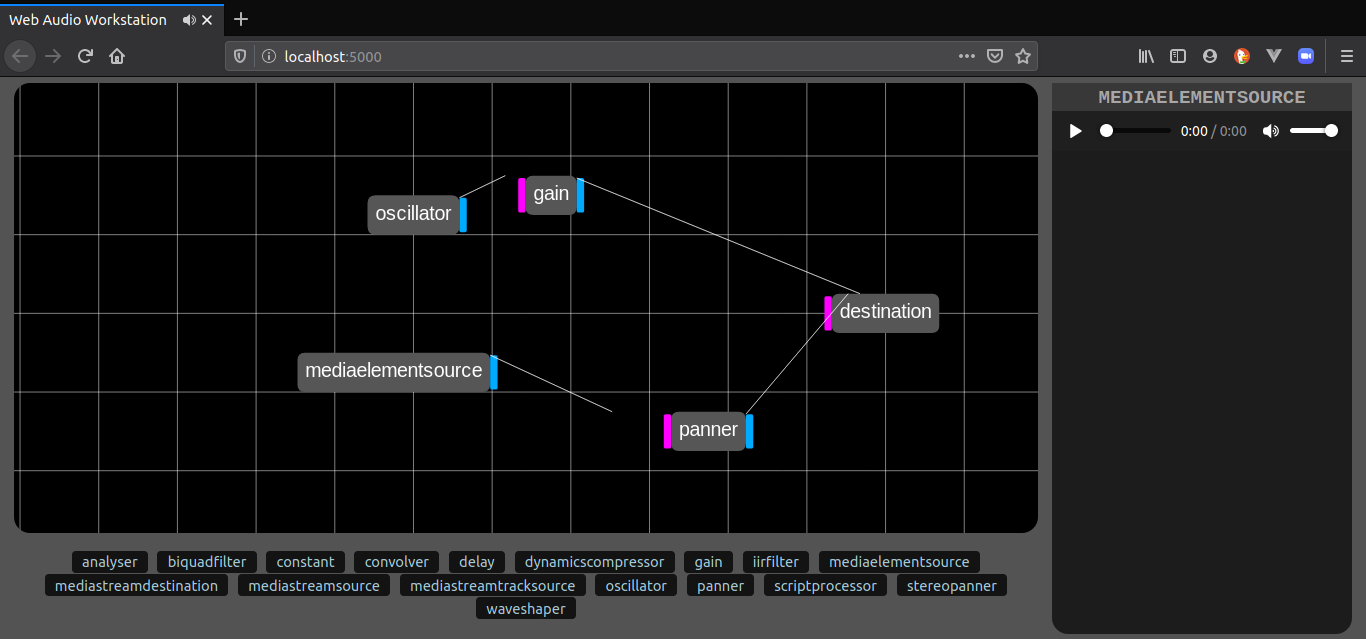
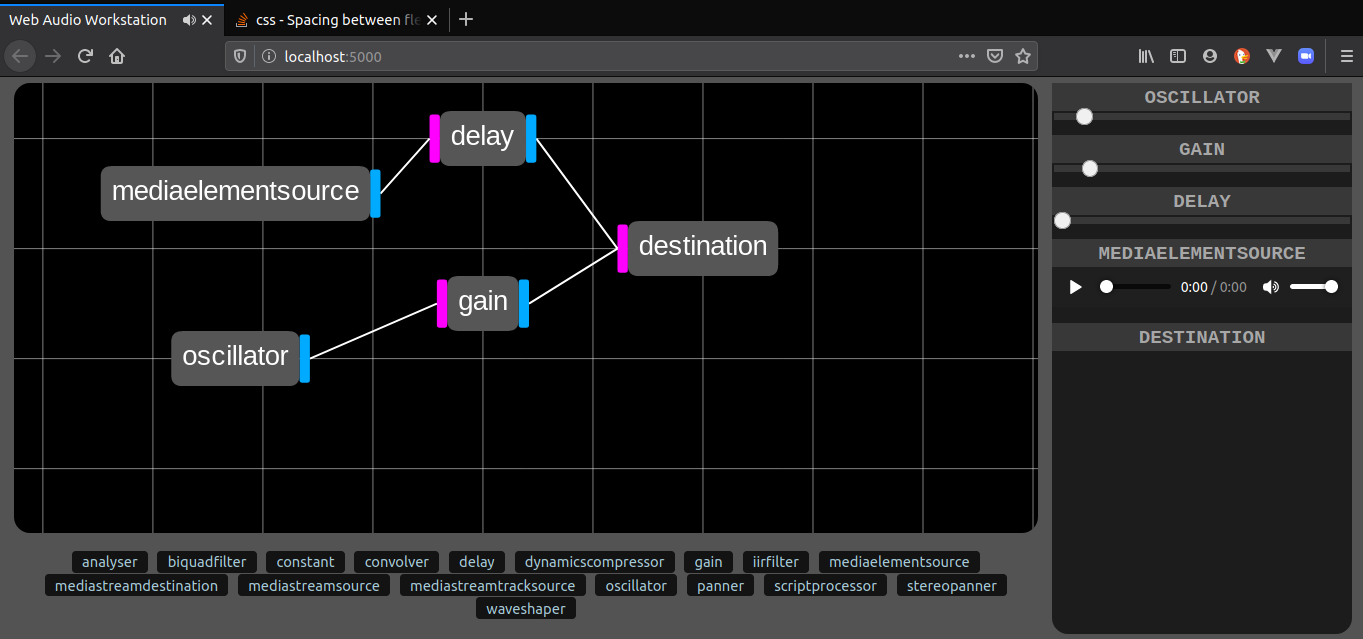
Reimplemented viewing multiple node configs at once Patched bug where js tried to access html that didn't exist Fixed rendering of node offsets + connection offsets Added spacing between config panels

diff --git a/code/node.js b/code/node.js
@@ -277,14 +277,6 @@ class Node {
    */
   static render(ctx, node) {
     ctx.save();
-    ctx.translate(-node.w / 2, -node.h / 2);
-    //ctx.beginPath();
-    roundRect(ctx, 0, 0, node.w, node.h, 0.1);
-    //ctx.rect(0, 0, node.w, node.h);
-    //ctx.closePath();
-
-    ctx.fillStyle = node.color;
-    ctx.fill();
 
     let outs = node.node.numberOfOutputs;
     let outSize = 1 / outs * node.h;
@@ -292,22 +284,31 @@ class Node {
 
     for (let i = 0; i < node.node.numberOfOutputs; i++) {
       ctx.fillStyle = node.outputColor;
-      let nx = node.w;
-      let ny = i * outSize + padSize;
+      let nx = node.x + node.w/2;
+      let ny = node.y -node.h/2 + (i * outSize + padSize);
       let nw = padSize * outs * 3;
       let nh = outSize - padSize * 2;
-      roundRect(ctx, nx, ny, nw, nh, 0.25 * nw);
-      ctx.fill();
 
       if (node.hasOutput(i)) {
+        ctx.save();
         ctx.beginPath();
-        ctx.moveTo(nx, ny);
+        ctx.moveTo(nx + nw, ny + nh/2);
         let other = node.outputNodes[i];
-        ctx.lineTo(other.x - node.x, other.y - node.y);
+        ctx.lineTo(other.x - other.w/2 - nw, other.y);
         ctx.closePath();
+        ctx.lineWidth *= 4;
         ctx.stroke();
+        ctx.restore();
       }
+
+      roundRect(ctx, nx, ny, nw, nh, 0.25 * nw);
+      ctx.fill();
     }
+
+    roundRect(ctx, node.x - node.w/2, node.y - node.h/2, node.w, node.h, 0.1);
+
+    ctx.fillStyle = node.color;
+    ctx.fill();
 
     let ins = node.node.numberOfInputs;
     let inSize = 1 / ins * node.h;
@@ -315,8 +316,8 @@ class Node {
 
     for (let i = 0; i < node.node.numberOfInputs; i++) {
       ctx.fillStyle = node.inputColor;
-      let nx = -padSize * ins * 3;
-      let ny = i * inSize + padSize;
+      let nx = node.x -node.w/2 + (-padSize * ins * 3);
+      let ny = node.y -node.h/2 + (i * inSize + padSize);
 
       let nw = padSize * ins * 3;
       let nh = inSize - padSize * 2;
@@ -326,7 +327,11 @@ class Node {
 
     ctx.fillStyle = "white";
     ctx.font = node.font;
-    ctx.fillText(node.name, nodeTextPadding, node.fontSize * 1.25);
+    ctx.fillText(
+      node.name,
+      node.x -node.w/2 + nodeTextPadding,
+      node.y -node.h/2 + (node.fontSize * 1.25)
+    );
     ctx.restore();
   }
 }

diff --git a/code/wuaw.js b/code/wuaw.js
@@ -136,11 +136,14 @@ class Renderer {
         this.lastSelectedNode = evt.node;
         this.populateConfig(this.lastSelectedNode);
         break;
+      case "add-select-node":
+        this.populateConfig(evt.node, false);
+        break;
       case "deselect-node":
         this.lastSelectedNode = undefined;
         this.populateConfig(undefined, true);
         break;
-      case "add-select-node": //Connect two nodes when we select them
+      case "connect-node": //Connect two nodes when we select them
         if (this.lastSelectedNode) {
           if (this.lastSelectedNode.isConnected(evt.node)) {
             this.lastSelectedNode.disconnect(evt.node);
@@ -200,10 +203,10 @@ class Renderer {
     }
 
     for (let node of this.nodes) {
-      this.ctx.save();
-      this.ctx.translate(node.x, node.y);
+      // this.ctx.save();
+      // this.ctx.translate(node.x, node.y);
       Node.render(this.ctx, node);
-      this.ctx.restore();
+      // this.ctx.restore();
     }
 
     this.ctx.restore();

diff --git a/code/index.js b/code/index.js
@@ -23,9 +23,10 @@ on(window, "contextmenu", (evt) => {
     type:"select-node",
     node:renderer.selectNode()
   };
+  if (evt.altKey) e.type = "add-select-node";
   if (!e.node) e.type = "deselect-node";
-  
-  if (evt.ctrlKey) e.type = "add-select-node";
+
+  if (evt.ctrlKey) e.type = "connect-node";
 
   renderer.onEvent(e);
 });
@@ -86,7 +87,7 @@ on(get("node-create-mediastreamsource"), "click", () => createNode("mediastreams
 on(get("node-create-mediastreamtracksource"), "click", () => createNode("mediastreamtracksource"));
 on(get("node-create-oscillator"), "click", () => createNode("oscillator"));
 on(get("node-create-panner"), "click", () => createNode("panner"));
-on(get("node-create-periodicwave"), "click", () => createNode("periodicwave"));
 on(get("node-create-scriptprocessor"), "click", () => createNode("scriptprocessor"));
 on(get("node-create-stereopanner"), "click", () => createNode("stereopanner"));
+
 on(get("node-create-waveshaper"), "click", () => createNode("waveshaper"));

diff --git a/code/aliases.js b/code/aliases.js
@@ -12,7 +12,10 @@ let make = (type) => document.createElement(type);
  * @param {callback} callback 
  * @param {object} options 
  */
-let on = (elem, type, callback, options) => elem.addEventListener(type, callback, options);
+let on = (elem, type, callback, options) => {
+  if (!elem) console.trace("Null");
+  elem.addEventListener(type, callback, options);
+}
 
 let clearChildren = (e)=>{
   while(e.lastChild) {

diff --git a/styles/node-config.css b/styles/node-config.css
@@ -22,6 +22,10 @@
   flex-direction:column;
 }
 
+.node-config-controls > * {
+  margin-bottom:1em;
+}
+
 .node-controls-colors {
   background-color:rgb(56, 56, 56);
   color:rgb(167, 167, 167);

diff --git a/ReadMe.md b/ReadMe.md
@@ -26,6 +26,7 @@ An experiment project for designing audio using the Web Audio API
 
 - Drag a node using left mouse button (0)
 - Open a node's config in the side using right mouse click on the node
+- Open multiple node configs at once by holding ALT while right-clicking nodes
 - Pan around by dragging left mouse button (0) over empty space, or while holding ALT key
 - Zoom using the mouse wheel
 
